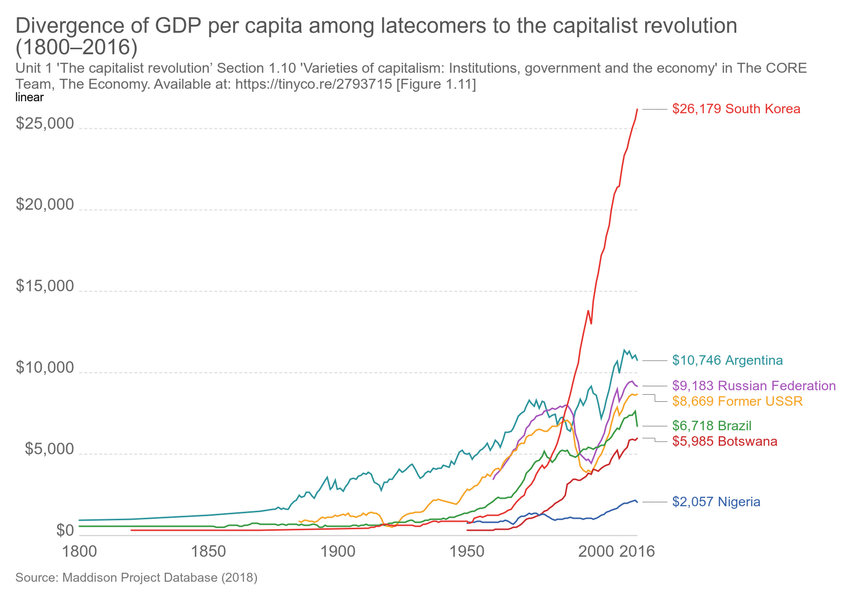
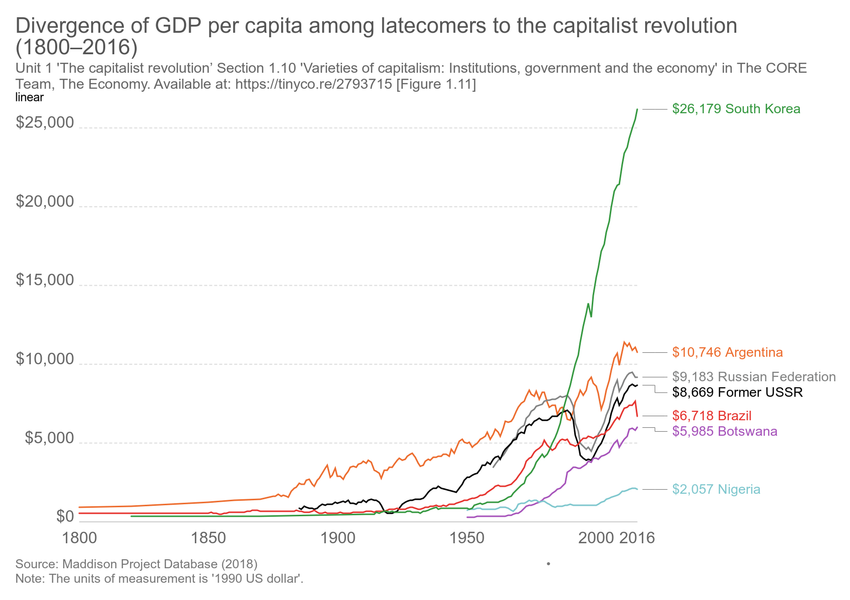
Updating chart wages-relative-to-the-price-of-energy

diff --git a/grapher/hiv-expenditure.html b/grapher/hiv-expenditure.html
@@ -1,4 +1,4 @@
-<!doctype html><html><head><meta name="viewport" content="width=device-width, initial-scale=1"/><title>HIV expenditure on prevention and treatment - Our World in Data</title><meta name="description" content="Total expenditure on HIV/AIDS prevention and treatment, measured in US$."/><link rel="canonical" href="https://ourworldindata.org/grapher/hiv-expenditure"/><meta property="fb:app_id" content="1149943818390250"/><meta property="og:url" content="https://ourworldindata.org/grapher/hiv-expenditure"/><meta property="og:title" content="HIV expenditure on prevention and treatment"/><meta property="og:description" content="Total expenditure on HIV/AIDS prevention and treatment, measured in US$."/><meta property="og:image" content="https://ourworldindata.org/grapher/exports/hiv-expenditure.png?v=1"/><meta property="og:image:width" content="850"/><meta property="og:image:height" content="600"/><meta property="og:site_name" content="Our World in Data"/><meta name="twitter:card" content="summary_large_image"/><meta name="twitter:site" content="@OurWorldInData"/><meta name="twitter:creator" content="@OurWorldInData"/><meta name="twitter:title" content="HIV expenditure on prevention and treatment"/><meta name="twitter:description" content="Total expenditure on HIV/AIDS prevention and treatment, measured in US$."/><meta name="twitter:image" content="https://ourworldindata.org/grapher/exports/hiv-expenditure.png?v=1"/><style>
+<!doctype html><html><head><meta name="viewport" content="width=device-width, initial-scale=1"/><title>HIV expenditure - Our World in Data</title><meta name="description" content="Country-reported HIV expenditure, measured in current US$ per year. The year of reported expenditure varies by country; this information can be found by hovering over a given country."/><link rel="canonical" href="https://ourworldindata.org/grapher/hiv-expenditure"/><meta property="fb:app_id" content="1149943818390250"/><meta property="og:url" content="https://ourworldindata.org/grapher/hiv-expenditure"/><meta property="og:title" content="HIV expenditure"/><meta property="og:description" content="Country-reported HIV expenditure, measured in current US$ per year. The year of reported expenditure varies by country; this information can be found by hovering over a given country."/><meta property="og:image" content="https://ourworldindata.org/grapher/exports/hiv-expenditure.png?v=1"/><meta property="og:image:width" content="850"/><meta property="og:image:height" content="600"/><meta property="og:site_name" content="Our World in Data"/><meta name="twitter:card" content="summary_large_image"/><meta name="twitter:site" content="@OurWorldInData"/><meta name="twitter:creator" content="@OurWorldInData"/><meta name="twitter:title" content="HIV expenditure"/><meta name="twitter:description" content="Country-reported HIV expenditure, measured in current US$ per year. The year of reported expenditure varies by country; this information can be found by hovering over a given country."/><meta name="twitter:image" content="https://ourworldindata.org/grapher/exports/hiv-expenditure.png?v=1"/><style>
         html, body {
             height: 100%;
             margin: 0;
@@ -20,18 +20,8 @@
         }
     </style><noscript><style>
                     figure { display: none !important; }
-                </style></noscript><link rel="stylesheet" href="https://ourworldindata.org/assets/css/commons.css"/><link rel="preload" href="/grapher/data/variables/96328.json?v=1" as="fetch" crossOrigin="anonymous"/></head><body class="singleChart"><figure data-grapher-src="/grapher/hiv-expenditure"></figure><noscript id="fallback"><img src="https://ourworldindata.org/grapher/exports/hiv-expenditure.svg"/><p>Interactive visualization requires JavaScript</p></noscript><script src="https://cdn.polyfill.io/v2/polyfill.min.js?features=es6,fetch"></script><script src="https://ourworldindata.org/assets/js/commons.js"></script><script src="https://ourworldindata.org/assets/js/owid.js"></script><script>
-        var jsonConfig = {"map":{"projection":"World","targetYear":2015,"variableId":96328,"timeTolerance":3,"baseColorScheme":"YlGnBu","isManualBuckets":true,"colorSchemeLabels":[],"colorSchemeValues":[50000000,100000000,150000000,200000000,250000000,300000000,350000000,400000000],"defaultProjection":"World","colorSchemeMinValue":0,"customNumericColors":[null,null],"customCategoryColors":{},"customCategoryLabels":{},"customHiddenCategories":{}},"tab":"map","slug":"hiv-expenditure","type":"LineChart","title":"HIV expenditure on prevention and treatment","xAxis":{"scaleType":"linear"},"yAxis":{"min":0,"scaleType":"linear"},"version":1,"subtitle":"Total expenditure on HIV/AIDS prevention and treatment, measured in US$.","hasMapTab":true,"stackMode":"absolute","dimensions":[{"display":{"shortUnit":"$"},"property":"y","variableId":96328}],"hasChartTab":true,"isPublished":true,"selectedData":[{"index":0,"entityId":123},{"index":0,"entityId":237},{"index":0,"entityId":95}],"addCountryMode":"add-country","id":2488};
-        var figure = document.getElementsByTagName("figure")[0];
-        try {
-            window.App = {};
-            window.ChartView.bootstrap({ jsonConfig: jsonConfig, containerNode: figure });
-        } catch (err) {
-            figure.innerHTML = "<img src=\"/grapher/exports/hiv-expenditure.svg\"/><p>Unable to load interactive visualization</p>";
-            figure.setAttribute("id", "fallback");
-            throw err;
-        }
-    </script></body></html>{"index":0,"entityId":21},{"index":0,"entityId":22},{"index":0,"entityId":219},{"index":0,"entityId":23},{"index":0,"entityId":25},{"index":0,"entityId":26},{"index":0,"entityId":28},{"index":0,"entityId":29},{"index":0,"entityId":30},{"index":0,"entityId":4},{"index":0,"entityId":31},{"index":0,"entityId":32},{"index":0,"entityId":34},{"index":0,"entityId":35},{"index":0,"entityId":36},{"index":0,"entityId":37},{"index":0,"entityId":39},{"index":0,"entityId":40},{"index":0,"entityId":41},{"index":0,"entityId":18581},{"index":0,"entityId":42},{"index":0,"entityId":43},{"index":0,"entityId":174},{"index":0,"entityId":173},{"index":0,"entityId":172},{"index":0,"entityId":171},{"index":0,"entityId":170},{"index":0,"entityId":169},{"index":0,"entityId":168},{"index":0,"entityId":166},{"index":0,"entityId":143}],"addCountryMode":"add-country","hideTitleAnnotation":true,"id":2293};
+                </style></noscript><link rel="stylesheet" href="https://ourworldindata.org/assets/css/commons.css"/><link rel="preload" href="/grapher/data/variables/85855.json?v=1" as="fetch" crossOrigin="anonymous"/></head><body class="singleChart"><figure data-grapher-src="/grapher/hiv-expenditure"></figure><noscript id="fallback"><img src="https://ourworldindata.org/grapher/exports/hiv-expenditure.svg"/><p>Interactive visualization requires JavaScript</p></noscript><script src="https://cdn.polyfill.io/v2/polyfill.min.js?features=es6,fetch"></script><script src="https://ourworldindata.org/assets/js/commons.js"></script><script src="https://ourworldindata.org/assets/js/owid.js"></script><script>
+        var jsonConfig = {"map":{"projection":"World","targetYear":2016,"variableId":85855,"equalSizeBins":true,"timeTolerance":5,"baseColorScheme":"Purples","isManualBuckets":true,"colorSchemeLabels":[],"colorSchemeValues":[50000000,100000000,200000000,300000000,400000000,500000000,750000000,1000000000],"defaultProjection":"World","colorSchemeMinValue":0,"customNumericColors":[null,null],"customCategoryColors":{},"customCategoryLabels":{},"customHiddenCategories":{}},"tab":"map","slug":"hiv-expenditure","type":"LineChart","title":"HIV expenditure","xAxis":{"scaleType":"linear"},"yAxis":{"min":0,"scaleType":"linear"},"version":1,"subtitle":"Country-reported HIV expenditure, measured in current US$ per year. The year of reported expenditure varies by country; this information can be found by hovering over a given country.","hasMapTab":true,"stackMode":"absolute","dimensions":[{"display":{},"property":"y","variableId":85855}],"isAutoSlug":true,"sourceDesc":"UNAIDS","hasChartTab":false,"isPublished":true,"selectedData":[{"index":0,"entityId":84},{"index":0,"entityId":233},{"index":0,"entityId":229},{"index":0,"entityId":15},{"index":0,"entityId":16},{"index":0,"entityId":17},{"index":0,"entityId":19},{"index":0,"entityId":20},{"index":0,"entityId":21},{"index":0,"entityId":22},{"index":0,"entityId":219},{"index":0,"entityId":23},{"index":0,"entityId":25},{"index":0,"entityId":26},{"index":0,"entityId":28},{"index":0,"entityId":29},{"index":0,"entityId":30},{"index":0,"entityId":4},{"index":0,"entityId":31},{"index":0,"entityId":32},{"index":0,"entityId":34},{"index":0,"entityId":35},{"index":0,"entityId":36},{"index":0,"entityId":37},{"index":0,"entityId":39},{"index":0,"entityId":40},{"index":0,"entityId":41},{"index":0,"entityId":18581},{"index":0,"entityId":42},{"index":0,"entityId":43},{"index":0,"entityId":174},{"index":0,"entityId":173},{"index":0,"entityId":172},{"index":0,"entityId":171},{"index":0,"entityId":170},{"index":0,"entityId":169},{"index":0,"entityId":168},{"index":0,"entityId":166},{"index":0,"entityId":143}],"addCountryMode":"add-country","hideTitleAnnotation":true,"id":2293};
         var figure = document.getElementsByTagName("figure")[0];
         try {
             window.App = {};

diff --git a/grapher/divergence-of-gdp-per-capita-among-latecomers-to-the-capitalist-revolution-18002016.html b/grapher/divergence-of-gdp-per-capita-among-latecomers-to-the-capitalist-revolution-18002016.html
@@ -1,4 +1,4 @@
-<!doctype html><html><head><meta name="viewport" content="width=device-width, initial-scale=1"/><title>Divergence of GDP per capita among latecomers to the capitalist revolution (1800–2016) - Our World in Data</title><meta name="description" content="Unit 1 &#x27;The capitalist revolution’ Section 1.10 &#x27;Varieties of capitalism: Institutions, government and the economy&#x27; in The CORE Team, The Economy. Available at: https://tinyco.re/2793715 [Figure 1.11]"/><link rel="canonical" href="https://ourworldindata.org/grapher/divergence-of-gdp-per-capita-among-latecomers-to-the-capitalist-revolution-18002016"/><meta property="fb:app_id" content="1149943818390250"/><meta property="og:url" content="https://ourworldindata.org/grapher/divergence-of-gdp-per-capita-among-latecomers-to-the-capitalist-revolution-18002016"/><meta property="og:title" content="Divergence of GDP per capita among latecomers to the capitalist revolution (1800–2016)"/><meta property="og:description" content="Unit 1 &#x27;The capitalist revolution’ Section 1.10 &#x27;Varieties of capitalism: Institutions, government and the economy&#x27; in The CORE Team, The Economy. Available at: https://tinyco.re/2793715 [Figure 1.11]"/><meta property="og:image" content="https://ourworldindata.org/grapher/exports/divergence-of-gdp-per-capita-among-latecomers-to-the-capitalist-revolution-18002016.png?v=6"/><meta property="og:image:width" content="850"/><meta property="og:image:height" content="600"/><meta property="og:site_name" content="Our World in Data"/><meta name="twitter:card" content="summary_large_image"/><meta name="twitter:site" content="@OurWorldInData"/><meta name="twitter:creator" content="@OurWorldInData"/><meta name="twitter:title" content="Divergence of GDP per capita among latecomers to the capitalist revolution (1800–2016)"/><meta name="twitter:description" content="Unit 1 &#x27;The capitalist revolution’ Section 1.10 &#x27;Varieties of capitalism: Institutions, government and the economy&#x27; in The CORE Team, The Economy. Available at: https://tinyco.re/2793715 [Figure 1.11]"/><meta name="twitter:image" content="https://ourworldindata.org/grapher/exports/divergence-of-gdp-per-capita-among-latecomers-to-the-capitalist-revolution-18002016.png?v=6"/><style>
+<!doctype html><html><head><meta name="viewport" content="width=device-width, initial-scale=1"/><title>Divergence of GDP per capita among latecomers to the capitalist revolution (1800–2016) - Our World in Data</title><meta name="description" content="Unit 1 &#x27;The capitalist revolution’ Section 1.10 &#x27;Varieties of capitalism: Institutions, government and the economy&#x27; in The CORE Team, The Economy. Available at: https://tinyco.re/2793715 [Figure 1.11]"/><link rel="canonical" href="https://ourworldindata.org/grapher/divergence-of-gdp-per-capita-among-latecomers-to-the-capitalist-revolution-18002016"/><meta property="fb:app_id" content="1149943818390250"/><meta property="og:url" content="https://ourworldindata.org/grapher/divergence-of-gdp-per-capita-among-latecomers-to-the-capitalist-revolution-18002016"/><meta property="og:title" content="Divergence of GDP per capita among latecomers to the capitalist revolution (1800–2016)"/><meta property="og:description" content="Unit 1 &#x27;The capitalist revolution’ Section 1.10 &#x27;Varieties of capitalism: Institutions, government and the economy&#x27; in The CORE Team, The Economy. Available at: https://tinyco.re/2793715 [Figure 1.11]"/><meta property="og:image" content="https://ourworldindata.org/grapher/exports/divergence-of-gdp-per-capita-among-latecomers-to-the-capitalist-revolution-18002016.png?v=9"/><meta property="og:image:width" content="850"/><meta property="og:image:height" content="600"/><meta property="og:site_name" content="Our World in Data"/><meta name="twitter:card" content="summary_large_image"/><meta name="twitter:site" content="@OurWorldInData"/><meta name="twitter:creator" content="@OurWorldInData"/><meta name="twitter:title" content="Divergence of GDP per capita among latecomers to the capitalist revolution (1800–2016)"/><meta name="twitter:description" content="Unit 1 &#x27;The capitalist revolution’ Section 1.10 &#x27;Varieties of capitalism: Institutions, government and the economy&#x27; in The CORE Team, The Economy. Available at: https://tinyco.re/2793715 [Figure 1.11]"/><meta name="twitter:image" content="https://ourworldindata.org/grapher/exports/divergence-of-gdp-per-capita-among-latecomers-to-the-capitalist-revolution-18002016.png?v=9"/><style>
         html, body {
             height: 100%;
             margin: 0;
@@ -20,8 +20,8 @@
         }
     </style><noscript><style>
                     figure { display: none !important; }
-                </style></noscript><link rel="stylesheet" href="https://ourworldindata.org/assets/css/commons.css"/><link rel="preload" href="/grapher/data/variables/99342.json?v=6" as="fetch" crossOrigin="anonymous"/></head><body class="singleChart"><figure data-grapher-src="/grapher/divergence-of-gdp-per-capita-among-latecomers-to-the-capitalist-revolution-18002016"></figure><noscript id="fallback"><img src="https://ourworldindata.org/grapher/exports/divergence-of-gdp-per-capita-among-latecomers-to-the-capitalist-revolution-18002016.svg"/><p>Interactive visualization requires JavaScript</p></noscript><script src="https://cdn.polyfill.io/v2/polyfill.min.js?features=es6,fetch"></script><script src="https://ourworldindata.org/assets/js/commons.js"></script><script src="https://ourworldindata.org/assets/js/owid.js"></script><script>
-        var jsonConfig = {"id":3242,"map":{"projection":"World","targetYear":2016,"variableId":99342,"colorSchemeLabels":[],"colorSchemeValues":[],"customNumericColors":[],"customCategoryColors":{},"customCategoryLabels":{},"customHiddenCategories":{}},"tab":"chart","slug":"divergence-of-gdp-per-capita-among-latecomers-to-the-capitalist-revolution-18002016","type":"LineChart","title":"Divergence of GDP per capita among latecomers to the capitalist revolution (1800–2016)","xAxis":{"scaleType":"linear"},"yAxis":{"min":0,"scaleType":"linear","canChangeScaleType":true},"maxTime":2016,"minTime":1800,"version":6,"hideLogo":true,"subtitle":"Unit 1 'The capitalist revolution’ Section 1.10 'Varieties of capitalism: Institutions, government and the economy' in The CORE Team, The Economy. Available at: https://tinyco.re/2793715 [Figure 1.11]","hasMapTab":true,"stackMode":"absolute","dimensions":[{"display":{},"property":"y","variableId":99342}],"hasChartTab":true,"isPublished":true,"selectedData":[{"index":0,"entityId":21},{"index":0,"entityId":38099},{"index":0,"entityId":36428},{"index":0,"entityId":37},{"index":0,"entityId":36},{"index":0,"entityId":103},{"index":0,"entityId":127}],"internalNotes":"core-econ.org","addCountryMode":"add-country"};
+                </style></noscript><link rel="stylesheet" href="https://ourworldindata.org/assets/css/commons.css"/><link rel="preload" href="/grapher/data/variables/99342.json?v=9" as="fetch" crossOrigin="anonymous"/></head><body class="singleChart"><figure data-grapher-src="/grapher/divergence-of-gdp-per-capita-among-latecomers-to-the-capitalist-revolution-18002016"></figure><noscript id="fallback"><img src="https://ourworldindata.org/grapher/exports/divergence-of-gdp-per-capita-among-latecomers-to-the-capitalist-revolution-18002016.svg"/><p>Interactive visualization requires JavaScript</p></noscript><script src="https://cdn.polyfill.io/v2/polyfill.min.js?features=es6,fetch"></script><script src="https://ourworldindata.org/assets/js/commons.js"></script><script src="https://ourworldindata.org/assets/js/owid.js"></script><script>
+        var jsonConfig = {"id":3242,"map":{"projection":"World","targetYear":2016,"variableId":99342,"colorSchemeLabels":[],"colorSchemeValues":[],"customNumericColors":[],"customCategoryColors":{},"customCategoryLabels":{},"customHiddenCategories":{}},"tab":"chart","note":"The units of measurement is '1990 US dollar'.","slug":"divergence-of-gdp-per-capita-among-latecomers-to-the-capitalist-revolution-18002016","type":"LineChart","title":"Divergence of GDP per capita among latecomers to the capitalist revolution (1800–2016)","xAxis":{"scaleType":"linear"},"yAxis":{"min":0,"scaleType":"linear","canChangeScaleType":true},"maxTime":2016,"minTime":1800,"version":9,"hideLogo":true,"subtitle":"Unit 1 'The capitalist revolution’ Section 1.10 'Varieties of capitalism: Institutions, government and the economy' in The CORE Team, The Economy. Available at: https://tinyco.re/2793715 [Figure 1.11]","hasMapTab":true,"originUrl":"https://tinyco.re/2793715","stackMode":"absolute","dimensions":[{"display":{},"property":"y","variableId":99342}],"hasChartTab":true,"isPublished":true,"selectedData":[{"color":"#ed6c2d","index":0,"entityId":21},{"color":"#818282","index":0,"entityId":38099},{"color":"#000","index":0,"entityId":36428},{"color":"#e6332e","index":0,"entityId":37},{"color":"#a652ba","index":0,"entityId":36},{"color":"#7ec7ce","index":0,"entityId":103},{"color":"#34983f","index":0,"entityId":127}],"internalNotes":"core-econ.org","addCountryMode":"add-country"};
         var figure = document.getElementsByTagName("figure")[0];
         try {
             window.App = {};

diff --git a/grapher/wages-relative-to-the-price-of-energy.html b/grapher/wages-relative-to-the-price-of-energy.html
@@ -1,4 +1,4 @@
-<!doctype html><html><head><meta name="viewport" content="width=device-width, initial-scale=1"/><title>Wages relative to the price of energy (early 1700s) - Our World in Data</title><meta name="description" content="Unit 2 &#x27;Technology, population, and growth’ Section 2.6 &#x27;The British Industrial Revolution and incentives for new technologies&#x27; in The CORE Team, The Economy. Available at: https://tinyco.re/2183446 [Figure 2.10]"/><link rel="canonical" href="https://ourworldindata.org/grapher/wages-relative-to-the-price-of-energy"/><meta property="fb:app_id" content="1149943818390250"/><meta property="og:url" content="https://ourworldindata.org/grapher/wages-relative-to-the-price-of-energy"/><meta property="og:title" content="Wages relative to the price of energy (early 1700s)"/><meta property="og:description" content="Unit 2 &#x27;Technology, population, and growth’ Section 2.6 &#x27;The British Industrial Revolution and incentives for new technologies&#x27; in The CORE Team, The Economy. Available at: https://tinyco.re/2183446 [Figure 2.10]"/><meta property="og:image" content="https://ourworldindata.org/grapher/exports/wages-relative-to-the-price-of-energy.png?v=10"/><meta property="og:image:width" content="850"/><meta property="og:image:height" content="600"/><meta property="og:site_name" content="Our World in Data"/><meta name="twitter:card" content="summary_large_image"/><meta name="twitter:site" content="@OurWorldInData"/><meta name="twitter:creator" content="@OurWorldInData"/><meta name="twitter:title" content="Wages relative to the price of energy (early 1700s)"/><meta name="twitter:description" content="Unit 2 &#x27;Technology, population, and growth’ Section 2.6 &#x27;The British Industrial Revolution and incentives for new technologies&#x27; in The CORE Team, The Economy. Available at: https://tinyco.re/2183446 [Figure 2.10]"/><meta name="twitter:image" content="https://ourworldindata.org/grapher/exports/wages-relative-to-the-price-of-energy.png?v=10"/><style>
+<!doctype html><html><head><meta name="viewport" content="width=device-width, initial-scale=1"/><title>Wages relative to the price of energy (early 1700s) - Our World in Data</title><meta name="description" content="Unit 2 &#x27;Technology, population, and growth’ Section 2.6 &#x27;The British Industrial Revolution and incentives for new technologies&#x27; in The CORE Team, The Economy. Available at: https://tinyco.re/2183446 [Figure 2.10]"/><link rel="canonical" href="https://ourworldindata.org/grapher/wages-relative-to-the-price-of-energy"/><meta property="fb:app_id" content="1149943818390250"/><meta property="og:url" content="https://ourworldindata.org/grapher/wages-relative-to-the-price-of-energy"/><meta property="og:title" content="Wages relative to the price of energy (early 1700s)"/><meta property="og:description" content="Unit 2 &#x27;Technology, population, and growth’ Section 2.6 &#x27;The British Industrial Revolution and incentives for new technologies&#x27; in The CORE Team, The Economy. Available at: https://tinyco.re/2183446 [Figure 2.10]"/><meta property="og:image" content="https://ourworldindata.org/grapher/exports/wages-relative-to-the-price-of-energy.png?v=11"/><meta property="og:image:width" content="850"/><meta property="og:image:height" content="600"/><meta property="og:site_name" content="Our World in Data"/><meta name="twitter:card" content="summary_large_image"/><meta name="twitter:site" content="@OurWorldInData"/><meta name="twitter:creator" content="@OurWorldInData"/><meta name="twitter:title" content="Wages relative to the price of energy (early 1700s)"/><meta name="twitter:description" content="Unit 2 &#x27;Technology, population, and growth’ Section 2.6 &#x27;The British Industrial Revolution and incentives for new technologies&#x27; in The CORE Team, The Economy. Available at: https://tinyco.re/2183446 [Figure 2.10]"/><meta name="twitter:image" content="https://ourworldindata.org/grapher/exports/wages-relative-to-the-price-of-energy.png?v=11"/><style>
         html, body {
             height: 100%;
             margin: 0;
@@ -20,8 +20,8 @@
         }
     </style><noscript><style>
                     figure { display: none !important; }
-                </style></noscript><link rel="stylesheet" href="https://ourworldindata.org/assets/css/commons.css"/><link rel="preload" href="/grapher/data/variables/98014.json?v=10" as="fetch" crossOrigin="anonymous"/></head><body class="singleChart"><figure data-grapher-src="/grapher/wages-relative-to-the-price-of-energy"></figure><noscript id="fallback"><img src="https://ourworldindata.org/grapher/exports/wages-relative-to-the-price-of-energy.svg"/><p>Interactive visualization requires JavaScript</p></noscript><script src="https://cdn.polyfill.io/v2/polyfill.min.js?features=es6,fetch"></script><script src="https://ourworldindata.org/assets/js/commons.js"></script><script src="https://ourworldindata.org/assets/js/owid.js"></script><script>
-        var jsonConfig = {"id":3034,"map":{"projection":"World","variableId":98014,"colorSchemeLabels":[],"colorSchemeValues":[],"customNumericColors":[],"customCategoryColors":{},"customCategoryLabels":{},"customHiddenCategories":{}},"tab":"chart","note":"The bar chart shows the price of labour relative to the price of energy in various cities in the early 1700s.","slug":"wages-relative-to-the-price-of-energy","type":"DiscreteBar","title":"Wages relative to the price of energy (early 1700s)","xAxis":{"scaleType":"linear"},"yAxis":{"min":0,"scaleType":"linear"},"version":10,"hideLogo":true,"subtitle":"Unit 2 'Technology, population, and growth’ Section 2.6 'The British Industrial Revolution and incentives for new technologies' in The CORE Team, The Economy. Available at: https://tinyco.re/2183446 [Figure 2.10]","hasMapTab":false,"stackMode":"absolute","dimensions":[{"display":{},"property":"y","variableId":98014}],"hasChartTab":true,"isPublished":true,"selectedData":[{"index":0,"entityId":36802},{"index":0,"entityId":38029},{"index":0,"entityId":34609},{"index":0,"entityId":38214},{"index":0,"entityId":36686},{"index":0,"entityId":38215}],"internalNotes":"core-econ.org","addCountryMode":"add-country","baseColorScheme":"owid-distinct","hideTitleAnnotation":true};
+                </style></noscript><link rel="stylesheet" href="https://ourworldindata.org/assets/css/commons.css"/><link rel="preload" href="/grapher/data/variables/98014.json?v=11" as="fetch" crossOrigin="anonymous"/></head><body class="singleChart"><figure data-grapher-src="/grapher/wages-relative-to-the-price-of-energy"></figure><noscript id="fallback"><img src="https://ourworldindata.org/grapher/exports/wages-relative-to-the-price-of-energy.svg"/><p>Interactive visualization requires JavaScript</p></noscript><script src="https://cdn.polyfill.io/v2/polyfill.min.js?features=es6,fetch"></script><script src="https://ourworldindata.org/assets/js/commons.js"></script><script src="https://ourworldindata.org/assets/js/owid.js"></script><script>
+        var jsonConfig = {"id":3034,"map":{"projection":"World","variableId":98014,"colorSchemeLabels":[],"colorSchemeValues":[],"customNumericColors":[],"customCategoryColors":{},"customCategoryLabels":{},"customHiddenCategories":{}},"tab":"chart","note":"The bar chart shows the price of labour relative to the price of energy in various cities in the early 1700s.","slug":"wages-relative-to-the-price-of-energy","type":"DiscreteBar","title":"Wages relative to the price of energy (early 1700s)","xAxis":{"scaleType":"linear"},"yAxis":{"min":0,"scaleType":"linear"},"version":11,"hideLogo":true,"subtitle":"Unit 2 'Technology, population, and growth’ Section 2.6 'The British Industrial Revolution and incentives for new technologies' in The CORE Team, The Economy. Available at: https://tinyco.re/2183446 [Figure 2.10]","hasMapTab":false,"originUrl":"https://tinyco.re/2183446","stackMode":"absolute","dimensions":[{"display":{},"property":"y","variableId":98014}],"hasChartTab":true,"isPublished":true,"selectedData":[{"index":0,"entityId":36802},{"index":0,"entityId":38029},{"index":0,"entityId":34609},{"index":0,"entityId":38214},{"index":0,"entityId":36686},{"index":0,"entityId":38215}],"internalNotes":"core-econ.org","addCountryMode":"add-country","baseColorScheme":"owid-distinct","hideTitleAnnotation":true};
         var figure = document.getElementsByTagName("figure")[0];
         try {
             window.App = {};

diff --git a/grapher/the-number-of-deaths-from-tetanus-by-world-region.html b/grapher/the-number-of-deaths-from-tetanus-by-world-region.html
@@ -1,4 +1,4 @@
-<!doctype html><html><head><meta name="viewport" content="width=device-width, initial-scale=1"/><title>The number of deaths from tetanus by world region - Our World in Data</title><meta name="description" content="These include deaths at any age and of both sexes."/><link rel="canonical" href="https://ourworldindata.org/grapher/the-number-of-deaths-from-tetanus-by-world-region"/><meta property="fb:app_id" content="1149943818390250"/><meta property="og:url" content="https://ourworldindata.org/grapher/the-number-of-deaths-from-tetanus-by-world-region"/><meta property="og:title" content="The number of deaths from tetanus by world region"/><meta property="og:description" content="These include deaths at any age and of both sexes."/><meta property="og:image" content="https://ourworldindata.org/grapher/exports/the-number-of-deaths-from-tetanus-by-world-region.png?v=1"/><meta property="og:image:width" content="850"/><meta property="og:image:height" content="600"/><meta property="og:site_name" content="Our World in Data"/><meta name="twitter:card" content="summary_large_image"/><meta name="twitter:site" content="@OurWorldInData"/><meta name="twitter:creator" content="@OurWorldInData"/><meta name="twitter:title" content="The number of deaths from tetanus by world region"/><meta name="twitter:description" content="These include deaths at any age and of both sexes."/><meta name="twitter:image" content="https://ourworldindata.org/grapher/exports/the-number-of-deaths-from-tetanus-by-world-region.png?v=1"/><style>
+<!doctype html><html><head><meta name="viewport" content="width=device-width, initial-scale=1"/><title>The number of deaths from tetanus by world region - Our World in Data</title><meta name="description" content="The total number of annual deaths from tetanus, differentiated by world region. This is given across all ages and both sexes. "/><link rel="canonical" href="https://ourworldindata.org/grapher/the-number-of-deaths-from-tetanus-by-world-region"/><meta property="fb:app_id" content="1149943818390250"/><meta property="og:url" content="https://ourworldindata.org/grapher/the-number-of-deaths-from-tetanus-by-world-region"/><meta property="og:title" content="The number of deaths from tetanus by world region"/><meta property="og:description" content="The total number of annual deaths from tetanus, differentiated by world region. This is given across all ages and both sexes. "/><meta property="og:image" content="https://ourworldindata.org/grapher/exports/the-number-of-deaths-from-tetanus-by-world-region.png?v=5"/><meta property="og:image:width" content="850"/><meta property="og:image:height" content="600"/><meta property="og:site_name" content="Our World in Data"/><meta name="twitter:card" content="summary_large_image"/><meta name="twitter:site" content="@OurWorldInData"/><meta name="twitter:creator" content="@OurWorldInData"/><meta name="twitter:title" content="The number of deaths from tetanus by world region"/><meta name="twitter:description" content="The total number of annual deaths from tetanus, differentiated by world region. This is given across all ages and both sexes. "/><meta name="twitter:image" content="https://ourworldindata.org/grapher/exports/the-number-of-deaths-from-tetanus-by-world-region.png?v=5"/><style>
         html, body {
             height: 100%;
             margin: 0;
@@ -20,8 +20,8 @@
         }
     </style><noscript><style>
                     figure { display: none !important; }
-                </style></noscript><link rel="stylesheet" href="https://ourworldindata.org/assets/css/commons.css"/><link rel="preload" href="/grapher/data/variables/66342.json?v=1" as="fetch" crossOrigin="anonymous"/></head><body class="singleChart"><figure data-grapher-src="/grapher/the-number-of-deaths-from-tetanus-by-world-region"></figure><noscript id="fallback"><img src="https://ourworldindata.org/grapher/exports/the-number-of-deaths-from-tetanus-by-world-region.svg"/><p>Interactive visualization requires JavaScript</p></noscript><script src="https://cdn.polyfill.io/v2/polyfill.min.js?features=es6,fetch"></script><script src="https://ourworldindata.org/assets/js/commons.js"></script><script src="https://ourworldindata.org/assets/js/owid.js"></script><script>
-        var jsonConfig = {"map":{"projection":"World","colorSchemeLabels":[],"colorSchemeValues":[],"customNumericColors":[],"customCategoryColors":{},"customCategoryLabels":{},"customHiddenCategories":{}},"tab":"chart","slug":"the-number-of-deaths-from-tetanus-by-world-region","type":"StackedArea","title":"The number of deaths from tetanus by world region","xAxis":{"scaleType":"linear"},"yAxis":{"min":0,"scaleType":"linear"},"version":1,"subtitle":"These include deaths at any age and of both sexes.","hasMapTab":false,"stackMode":"absolute","dimensions":[{"display":{},"property":"y","variableId":66342}],"isAutoSlug":true,"sourceDesc":"Institute for Health Metrics and Evaluation (2016)","hasChartTab":true,"isPublished":true,"selectedData":[{"index":0,"entityId":294},{"index":0,"entityId":344},{"index":0,"entityId":4676},{"index":0,"entityId":293},{"index":0,"entityId":289},{"index":0,"entityId":302},{"index":0,"entityId":345}],"addCountryMode":"disabled","id":3239};
+                </style></noscript><link rel="stylesheet" href="https://ourworldindata.org/assets/css/commons.css"/><link rel="preload" href="/grapher/data/variables/58493.json?v=5" as="fetch" crossOrigin="anonymous"/></head><body class="singleChart"><figure data-grapher-src="/grapher/the-number-of-deaths-from-tetanus-by-world-region"></figure><noscript id="fallback"><img src="https://ourworldindata.org/grapher/exports/the-number-of-deaths-from-tetanus-by-world-region.svg"/><p>Interactive visualization requires JavaScript</p></noscript><script src="https://cdn.polyfill.io/v2/polyfill.min.js?features=es6,fetch"></script><script src="https://ourworldindata.org/assets/js/commons.js"></script><script src="https://ourworldindata.org/assets/js/owid.js"></script><script>
+        var jsonConfig = {"id":1926,"map":{"projection":"World","targetYear":2016,"variableId":58493,"baseColorScheme":"YlOrBr","colorSchemeLabels":[],"colorSchemeValues":[],"colorSchemeMinValue":0,"customNumericColors":[],"customCategoryColors":{},"customCategoryLabels":{},"customHiddenCategories":{}},"tab":"chart","slug":"the-number-of-deaths-from-tetanus-by-world-region","type":"StackedArea","title":"The number of deaths from tetanus by world region","xAxis":{"scaleType":"linear"},"yAxis":{"min":0,"scaleType":"linear"},"version":5,"subtitle":"The total number of annual deaths from tetanus, differentiated by world region. This is given across all ages and both sexes. ","hasMapTab":true,"stackMode":"absolute","dimensions":[{"display":{"name":"Tetanus","unit":"deaths","numDecimalPlaces":0},"property":"y","variableId":58493}],"sourceDesc":"IHME, Global Burden of Disease (2017)","hasChartTab":true,"isPublished":true,"selectedData":[{"index":0,"entityId":277},{"index":0,"entityId":476},{"index":0,"entityId":34616},{"index":0,"entityId":473},{"index":0,"entityId":294},{"index":0,"entityId":34620},{"index":0,"entityId":34625},{"index":0,"entityId":289},{"index":0,"entityId":34613},{"index":0,"entityId":469},{"index":0,"entityId":34614},{"index":0,"entityId":302}],"addCountryMode":"disabled","baseColorScheme":"owid-distinct"};
         var figure = document.getElementsByTagName("figure")[0];
         try {
             window.App = {};

diff --git a/grapher/deaths-from-natural-disasters-by-type.html b/grapher/deaths-from-natural-disasters-by-type.html
@@ -1,4 +1,4 @@
-<!doctype html><html><head><meta name="viewport" content="width=device-width, initial-scale=1"/><title>Global deaths from natural disasters by type - Our World in Data</title><meta name="description" content="Annual number of deaths from natural disasters, differentiated by type."/><link rel="canonical" href="https://ourworldindata.org/grapher/deaths-from-natural-disasters-by-type"/><meta property="fb:app_id" content="1149943818390250"/><meta property="og:url" content="https://ourworldindata.org/grapher/deaths-from-natural-disasters-by-type"/><meta property="og:title" content="Global deaths from natural disasters by type"/><meta property="og:description" content="Annual number of deaths from natural disasters, differentiated by type."/><meta property="og:image" content="https://ourworldindata.org/grapher/exports/deaths-from-natural-disasters-by-type.png?v=1"/><meta property="og:image:width" content="850"/><meta property="og:image:height" content="600"/><meta property="og:site_name" content="Our World in Data"/><meta name="twitter:card" content="summary_large_image"/><meta name="twitter:site" content="@OurWorldInData"/><meta name="twitter:creator" content="@OurWorldInData"/><meta name="twitter:title" content="Global deaths from natural disasters by type"/><meta name="twitter:description" content="Annual number of deaths from natural disasters, differentiated by type."/><meta name="twitter:image" content="https://ourworldindata.org/grapher/exports/deaths-from-natural-disasters-by-type.png?v=1"/><style>
+<!doctype html><html><head><meta name="viewport" content="width=device-width, initial-scale=1"/><title>Number of deaths from natural disasters by type - Our World in Data</title><meta name="description" content="Global estimates of the number of deaths from natural disasters, differentiated by disaster type. "/><link rel="canonical" href="https://ourworldindata.org/grapher/deaths-from-natural-disasters-by-type"/><meta property="fb:app_id" content="1149943818390250"/><meta property="og:url" content="https://ourworldindata.org/grapher/deaths-from-natural-disasters-by-type"/><meta property="og:title" content="Number of deaths from natural disasters by type"/><meta property="og:description" content="Global estimates of the number of deaths from natural disasters, differentiated by disaster type. "/><meta property="og:image" content="https://ourworldindata.org/grapher/exports/deaths-from-natural-disasters-by-type.png?v=5"/><meta property="og:image:width" content="850"/><meta property="og:image:height" content="600"/><meta property="og:site_name" content="Our World in Data"/><meta name="twitter:card" content="summary_large_image"/><meta name="twitter:site" content="@OurWorldInData"/><meta name="twitter:creator" content="@OurWorldInData"/><meta name="twitter:title" content="Number of deaths from natural disasters by type"/><meta name="twitter:description" content="Global estimates of the number of deaths from natural disasters, differentiated by disaster type. "/><meta name="twitter:image" content="https://ourworldindata.org/grapher/exports/deaths-from-natural-disasters-by-type.png?v=5"/><style>
         html, body {
             height: 100%;
             margin: 0;
@@ -20,8 +20,8 @@
         }
     </style><noscript><style>
                     figure { display: none !important; }
-                </style></noscript><link rel="stylesheet" href="https://ourworldindata.org/assets/css/commons.css"/><link rel="preload" href="/grapher/data/variables/3568.json?v=1" as="fetch" crossOrigin="anonymous"/></head><body class="singleChart"><figure data-grapher-src="/grapher/deaths-from-natural-disasters-by-type"></figure><noscript id="fallback"><img src="https://ourworldindata.org/grapher/exports/deaths-from-natural-disasters-by-type.svg"/><p>Interactive visualization requires JavaScript</p></noscript><script src="https://cdn.polyfill.io/v2/polyfill.min.js?features=es6,fetch"></script><script src="https://ourworldindata.org/assets/js/commons.js"></script><script src="https://ourworldindata.org/assets/js/owid.js"></script><script>
-        var jsonConfig = {"map":{"projection":"World","colorSchemeLabels":[],"colorSchemeValues":[],"customNumericColors":[],"customCategoryColors":{},"customCategoryLabels":{},"customHiddenCategories":{}},"tab":"chart","slug":"deaths-from-natural-disasters-by-type","type":"StackedBar","title":"Global deaths from natural disasters by type","xAxis":{"scaleType":"linear"},"yAxis":{"min":0,"scaleType":"linear"},"minTime":2011,"version":1,"subtitle":"Annual number of deaths from natural disasters, differentiated by type.","hasMapTab":false,"stackMode":"absolute","dimensions":[{"display":{},"property":"y","variableId":3568}],"sourceDesc":"EMDAT (2019): OFDA/CRED International Disaster Database, Université catholique de Louvain – Brussels – Belgium","hasChartTab":true,"isPublished":true,"variantName":"(EM-DAT; 2011 to 2018)","selectedData":[{"index":0,"entityId":34697},{"index":0,"entityId":34690},{"index":0,"entityId":34698},{"index":0,"entityId":34688},{"index":0,"entityId":34695},{"index":0,"entityId":34693},{"index":0,"entityId":34696},{"index":0,"entityId":34694},{"index":0,"entityId":34692}],"addCountryMode":"disabled","id":3310};
+                </style></noscript><link rel="stylesheet" href="https://ourworldindata.org/assets/css/commons.css"/><link rel="preload" href="/grapher/data/variables/3568.json?v=5" as="fetch" crossOrigin="anonymous"/></head><body class="singleChart"><figure data-grapher-src="/grapher/deaths-from-natural-disasters-by-type"></figure><noscript id="fallback"><img src="https://ourworldindata.org/grapher/exports/deaths-from-natural-disasters-by-type.svg"/><p>Interactive visualization requires JavaScript</p></noscript><script src="https://cdn.polyfill.io/v2/polyfill.min.js?features=es6,fetch"></script><script src="https://ourworldindata.org/assets/js/commons.js"></script><script src="https://ourworldindata.org/assets/js/owid.js"></script><script>
+        var jsonConfig = {"id":2912,"map":{"projection":"World","colorSchemeLabels":[],"colorSchemeValues":[],"customNumericColors":[],"customCategoryColors":{},"customCategoryLabels":{},"customHiddenCategories":{}},"tab":"chart","slug":"deaths-from-natural-disasters-by-type","type":"StackedBar","title":"Number of deaths from natural disasters by type","xAxis":{"scaleType":"linear"},"yAxis":{"min":0,"scaleType":"linear"},"minTime":1990,"version":5,"subtitle":"Global estimates of the number of deaths from natural disasters, differentiated by disaster type. ","hasMapTab":false,"originUrl":"https://ourworldindata.org/natural-disasters","stackMode":"absolute","dimensions":[{"display":{},"property":"y","variableId":3568}],"sourceDesc":"EMDAT (2017): OFDA/CRED International Disaster Database, Université catholique de Louvain – Brussels – Belgium","hasChartTab":true,"isPublished":true,"selectedData":[{"index":0,"entityId":34693},{"index":0,"entityId":34694},{"index":0,"entityId":34690},{"index":0,"entityId":34696},{"index":0,"entityId":34689},{"index":0,"entityId":34697},{"color":"#818282","index":0,"entityId":34695},{"color":"#ca2628","index":0,"entityId":34698},{"color":"#2a939b","index":0,"entityId":34688},{"index":0,"entityId":34692}],"addCountryMode":"disabled"};
         var figure = document.getElementsByTagName("figure")[0];
         try {
             window.App = {};
